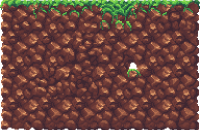
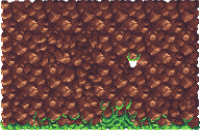
Fix bug in rocks creation

diff --git a/Secret Mission/Secret Mission.cpp b/Secret Mission/Secret Mission.cpp
@@ -81,6 +81,8 @@ bool b1_hglt = false;
 bool b2_hglt = false;
 bool b3_hglt = false;
 
+dirs ship_prev_dir = dirs::stop;
+
 ////////////////////////////////////////////////////
 
 ID2D1Factory* iFactory = nullptr;
@@ -107,15 +109,16 @@ ID2D1Bitmap* bmpCloud1 = nullptr;
 ID2D1Bitmap* bmpCloud2 = nullptr;
 ID2D1Bitmap* bmpPortal = nullptr;
 
-ID2D1Bitmap* bmpExplosion[10] = { 0 };
-ID2D1Bitmap* bmpField[24] = { 0 };
+ID2D1Bitmap* bmpExplosion[24] = { 0 };
+ID2D1Bitmap* bmpField[10] = { 0 };
 ID2D1Bitmap* bmpShipL[13] = { 0 };
 ID2D1Bitmap* bmpShipR[13] = { 0 };
 
 //////////////////////////////////////
 
 prot_ptr Field = nullptr;
-
+prot_ptr Ship = nullptr;
+std::vector<prot_ptr>vRocks;
 
 ///////////////////////////////////////
 
@@ -143,7 +146,7 @@ bool GarbageCollector()
     if (err)ErrLog(L"Error in RelaseCOM(&iFactory)");
 
     err = ReleaseCOM(&Draw);
-    if (!err)ErrLog(L"Error in RelaseCOM(&Draw)");
+    if (err)ErrLog(L"Error in RelaseCOM(&Draw)");
 
     err = ReleaseCOM(&iWriteFactory);
     if (err)ErrLog(L"Error in RelaseCOM(&iWriteFactory)");
@@ -199,7 +202,7 @@ bool GarbageCollector()
     err = ReleaseCOM(&bmpPortal);
     if (err)ErrLog(L"Error in RelaseCOM(&bmpPortal)");
 
-    for (int i = 0; i < 10; i++)
+    for (int i = 0; i < 24; i++)
     {
         err = ReleaseCOM(&bmpExplosion[i]);
         if (err)
@@ -212,7 +215,7 @@ bool GarbageCollector()
         }
     }
 
-    for (int i = 0; i < 24; i++)
+    for (int i = 0; i < 10; i++)
     {
         err = ReleaseCOM(&bmpField[i]);
         if (err)
@@ -273,10 +276,61 @@ void InitGame()
     wcscat_s(current_player, L"A SPY");
     set_name = false;
 
+    if (!vRocks.empty())
+    {
+        for (int i = 0; i < vRocks.size(); ++i)ReleaseCOM(&vRocks[i]);
+    }
+
     ReleaseCOM(&Field);
+    ReleaseCOM(&Ship);
+    vRocks.clear();
 
     Field = ProtonFactory(types::field, 0, 0);
+    Ship = ProtonFactory(types::ship, 120.0f, cl_height / 2);
+ 
+    for (int i = 0; i < 8; i++)
+    {
+        types one_type = types::no_type;
+        float start_x = 0;
+        float start_y = 0;
 
+        switch (rand() % 4)
+        {
+        case 0:
+            one_type = types::big_block_u;
+            break;
+
+        case 1:
+            one_type = types::big_block_d;
+            break;
+
+        case 2:
+            one_type = types::small_block;
+            break;
+
+        case 3:
+            one_type = types::vblock;
+            break;
+        }
+
+        if (i == 0)
+        {
+            start_x = cl_width;
+            if (one_type == types::big_block_u)start_y = 51.0f;
+            else if (one_type == types::big_block_d)start_y = cl_height - 120.0f;
+            else if (one_type == types::small_block)start_y = 51.0f;
+            else if (one_type == types::vblock) start_y = 51.0f + rand() % 440;
+        }
+        else
+        {
+            start_x = vRocks.back()->ex;
+            if (one_type == types::big_block_u)start_y = 51.0f;
+            else if (one_type == types::big_block_d)start_y = cl_height - 120.0f;
+            else if (one_type == types::small_block)start_y = 51.0f;
+            else if (one_type == types::vblock) start_y = 51.0f + rand() % 440;
+        }
+        vRocks.push_back(ProtonFactory(one_type, start_x, start_y));
+    }
 
 }
 
@@ -363,7 +417,7 @@ void InitD2D1()
     bmpCloud2 = Load(L".\\res\\img\\cloud1.png", Draw);
     if (!bmpCloud2)ErrExit(eD2D, L"Error loading bmpCloud2");
 
-    bmpGreatBlock = Load(L".\\res\\img\\v_block.png", Draw);
+    bmpGreatBlock = Load(L".\\res\\img\\vblock.png", Draw);
     if (!bmpGreatBlock)ErrExit(eD2D, L"Error loading bmpGreatBlock");
 
     bmpPortal = Load(L".\\res\\img\\portal.png", Draw);
@@ -375,7 +429,7 @@ void InitD2D1()
     bmpLaser = Load(L".\\res\\img\\laser.png", Draw);
     if (!bmpLaser)ErrExit(eD2D, L"Error loading bmpLaser");
 
-    for (int i = 0; i < 23; i++)
+    for (int i = 0; i < 24; i++)
     {
         wchar_t name[100] = L".\\res\\img\\explosion\\";
         wchar_t add[5] = L"\0";
@@ -683,6 +737,40 @@ LRESULT CALLBACK bWinProc(HWND hwnd, UINT ReceivedMsg, WPARAM wParam, LPARAM lPa
         }
         break;
 
+    case WM_KEYDOWN:
+        switch (LOWORD(wParam))
+        {
+        case VK_LEFT:
+            if (Ship)Ship->dir = dirs::left;
+            break;
+
+        case VK_RIGHT:
+            if (Ship)Ship->dir = dirs::right;
+            break;
+
+        case VK_UP:
+            if (Ship)
+            {
+                if (Ship->dir != dirs::up && Ship->dir != dirs::down)ship_prev_dir = Ship->dir;
+                Ship->dir = dirs::up;
+            }
+            break;
+
+        case VK_DOWN:
+            if (Ship)
+            {
+                if (Ship->dir != dirs::up && Ship->dir != dirs::down)ship_prev_dir = Ship->dir; 
+                Ship->dir = dirs::down;
+            }
+            break;
+
+        case VK_CONTROL:
+           
+            break;
+
+        }
+        break;
+
     default: return DefWindowProc(hwnd, ReceivedMsg, wParam, lParam);
     }
 
@@ -751,6 +839,58 @@ int APIENTRY wWinMain(_In_ HINSTANCE hInstance, _In_opt_ HINSTANCE hPrevInstance
             continue;
         }
 
+        //GAME ENGINE *********************************************************************
+
+        //SHIP *******************
+
+        if (Ship)Ship->Move((float)(level));
+        if (!vRocks.empty())
+        {
+            for (std::vector<prot_ptr>::iterator rock = vRocks.begin(); rock < vRocks.end(); ++rock)
+            {
+                if ((*rock)->Move((float)(level)) == DLRESULT::fail)
+                {
+                    (*rock)->Release();
+                    vRocks.erase(rock);
+                    break;
+                }
+            }
+        }
+
+        if (vRocks.size() < 7)
+        {
+            types one_type = types::no_type;
+            float start_x = vRocks.back()->ex;
+            float start_y = 0;
+
+            switch (rand() % 4)
+            {
+            case 0:
+                one_type = types::big_block_u;
+                break;
+
+            case 1:
+                one_type = types::big_block_d;
+                break;
+
+            case 2:
+                one_type = types::small_block;
+                break;
+
+            case 3:
+                one_type = types::vblock;
+                break;
+            }
+            if (one_type == types::big_block_u)start_y = 51.0f;
+            else if (one_type == types::big_block_d)start_y = cl_height - 120.0f;
+            else if (one_type == types::small_block)start_y = 51.0f;
+            else if (one_type == types::vblock)start_y = 51.0f + rand() % 440;
+
+            vRocks.push_back(ProtonFactory(one_type, start_x, start_y));
+            
+        }
+
+        /////////////////////////
 
 
         //DRAW THINGS ***********************************************************************
@@ -788,19 +928,60 @@ int APIENTRY wWinMain(_In_ HINSTANCE hInstance, _In_opt_ HINSTANCE hPrevInstance
                 Draw->DrawTextW(L"Помощ за играта", 16, nrmTextForm, D2D1::RectF(b3Rct.left + 50.0f, 0, b3Rct.right, 50.0f),
                     but_txt_brush);
         }
-        
+        if (Ship)
+        {
+            int ex_frame = Ship->GetFrame();
 
+            if (Ship->GetType() == types::explosion)
+            {
+                Draw->DrawBitmap(bmpExplosion[ex_frame], D2D1::RectF(Ship->x, Ship->y, Ship->ex, Ship->ey));
+                if (ex_frame >= 23)GameOver();
+            }
+            else
+            {
+                if (Ship->dir == dirs::right || Ship->dir == dirs::stop)
+                    Draw->DrawBitmap(bmpShipR[ex_frame], D2D1::RectF(Ship->x, Ship->y, Ship->ex, Ship->ey));
+                else if (Ship->dir == dirs::left)
+                    Draw->DrawBitmap(bmpShipL[ex_frame], D2D1::RectF(Ship->x, Ship->y, Ship->ex, Ship->ey));
+                else if (Ship->dir == dirs::up || Ship->dir == dirs::down)
+                {
+                    if (ship_prev_dir == dirs::right || ship_prev_dir == dirs::stop)
+                        Draw->DrawBitmap(bmpShipR[ex_frame], D2D1::RectF(Ship->x, Ship->y, Ship->ex, Ship->ey));
+                    else if (ship_prev_dir == dirs::left)
+                        Draw->DrawBitmap(bmpShipL[ex_frame], D2D1::RectF(Ship->x, Ship->y, Ship->ex, Ship->ey));
+                }
+            }
+            
+        }
+        if (!vRocks.empty())
+        {
+            for (int i = 0; i < vRocks.size(); ++i)
+            {
+                switch (vRocks[i]->GetType())
+                {
+                case types::big_block_u:
+                    Draw->DrawBitmap(bmpBigBlockU, D2D1::RectF(vRocks[i]->x, vRocks[i]->y, vRocks[i]->ex, vRocks[i]->ey));
+                    break;
+
+                case types::big_block_d:
+                    Draw->DrawBitmap(bmpBigBlockD, D2D1::RectF(vRocks[i]->x, vRocks[i]->y, vRocks[i]->ex, vRocks[i]->ey));
+                    break;
+
+                case types::small_block:
+                    Draw->DrawBitmap(bmpSmallBlock, D2D1::RectF(vRocks[i]->x, vRocks[i]->y, vRocks[i]->ex, vRocks[i]->ey));
+                    break;
+
+                case types::vblock:
+                    Draw->DrawBitmap(bmpGreatBlock, D2D1::RectF(vRocks[i]->x, vRocks[i]->y, vRocks[i]->ex, vRocks[i]->ey));
+                    break;
+                }
+            }
+        }
 
         Draw->EndDraw();
 
 
     }
-
-
-
-
-
-
 
     GarbageCollector();
     std::remove(tmpFile);

diff --git a/Secret Mission/smhelper.h b/Secret Mission/smhelper.h
@@ -76,7 +76,7 @@ class SMHELPER_API PROTON :public BASIC
 		int lifes = 0;
 		dirs dir = dirs::stop;
 		
-		PROTON(types _type, float _x, float _y, float _width, float _height) :BASIC(_x, y, _width, _height)
+		PROTON(types _type, float _x, float _y, float _width, float _height) :BASIC(_x, _y, _width, _height)
 		{
 			type = _type;
 		}
